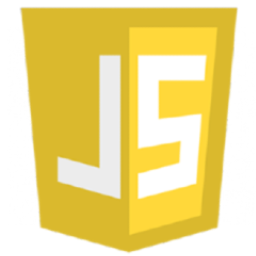
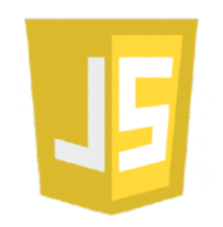
skills images improved

diff --git a/components/home-sections/skills/index.vue b/components/home-sections/skills/index.vue
@@ -1,7 +1,12 @@
 <template>
   <div class="skills">
     <VueSlickCarousel v-bind="settings">
-      <img v-for="(image, index) in images" :key="index" :src="image" />
+      <SkillCard
+        v-for="(skill, index) in skills"
+        :key="index"
+        :title="skill.title"
+        :image="skill.image"
+      />
     </VueSlickCarousel>
   </div>
 </template>
@@ -14,15 +19,37 @@ import vueImage from '@/assets/images/skills/vue.png'
 import nuxtImage from '@/assets/images/skills/nuxt.png'
 
 import VueSlickCarousel from 'vue-slick-carousel'
+import SkillCard from '@/components/skill-card'
 import 'vue-slick-carousel/dist/vue-slick-carousel.css'
 // optional style for arrows & dots
 import 'vue-slick-carousel/dist/vue-slick-carousel-theme.css'
 
 export default {
-  components: { VueSlickCarousel },
+  components: { VueSlickCarousel, SkillCard },
   data() {
     return {
-      images: [vueImage, nuxtImage, javascriptImage, htmlImage, cssImage],
+      skills: [
+        {
+          title: 'Vue.js',
+          image: vueImage,
+        },
+        {
+          title: 'Nuxt.js',
+          image: nuxtImage,
+        },
+        {
+          title: 'JavaScript',
+          image: javascriptImage,
+        },
+        {
+          title: 'HTML',
+          image: htmlImage,
+        },
+        {
+          title: 'CSS',
+          image: cssImage,
+        },
+      ],
       settings: {
         dots: false,
         focusOnSelect: false,

diff --git a/components/skill-card/style.scss b/components/skill-card/style.scss
@@ -1,0 +1,61 @@
+@import "~assets/sass/required.scss";
+
+.skill-card {
+    position: relative;
+    display: block;
+    background: #444444;
+    border-radius: 3px;
+    overflow: hidden;
+    height: 200px;
+    width: 150px !important;
+    &:before {
+      content: '';
+      display: block;
+      padding-bottom: 127%;
+      height: 0;
+    }
+    div, &__content, &__image {
+      position: absolute;
+      left: 0;
+      top: 0;
+      width: 100%;
+      height: 100%;
+    }
+    &__image {
+      background-size: cover;
+      background-position: center;
+    }
+    &__content {
+      background: linear-gradient(180deg, rgba(0, 0, 0, 0) 75%, #000000 100%);
+      display: flex;
+      flex-direction: column;
+      justify-content: flex-end;
+      align-items: center;
+      flex-wrap: nowrap;
+      padding-bottom: 24px;
+      color: #FFFFFF;
+    }
+    &__title {
+      font-weight: bold;
+      font-size: 24px;
+      line-height: 28px;
+      padding-bottom: -3px;
+      position: absolute;
+      bottom: 10px;
+
+      @include media(xs) {
+        font-size: 16px;
+        line-height: 19px;
+      }
+    }
+    &__subtitle {
+      font-weight: 500;
+      font-size: 15px;
+      line-height: 20px;
+
+      @include media(xs) {
+        font-size: 13px;
+        line-height: 16px;
+      }
+    }
+}

diff --git a/components/skill-card/index.vue b/components/skill-card/index.vue
@@ -1,12 +1,9 @@
 <template>
-  <div class="project-summary">
+  <div class="skill-card">
     <div>
-      <div class="project-summary__image" :style="imageStyle" />
-      <div class="project-summary__content">
-        <span v-if="title" class="project-summary__title">{{ title }}</span>
-        <span v-if="subTitle" class="project-summary__subtitle">
-          {{ subTitle }}
-        </span>
+      <div class="skill-card__image" :style="imageStyle" />
+      <div class="skill-card__content">
+        <span v-if="title" class="skill-card__title">{{ title }}</span>
       </div>
     </div>
   </div>

diff --git a/components/home-sections/skills/style.scss b/components/home-sections/skills/style.scss
@@ -3,9 +3,7 @@
     .slick-slide {
         div {
             display: flex;
-            img {
-                width: 120px !important;
-                height: 100px !important;
+            div {
                 margin: auto;
             }
         }
